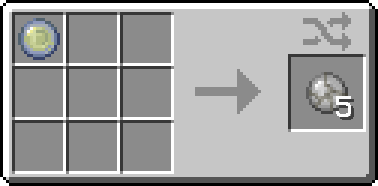
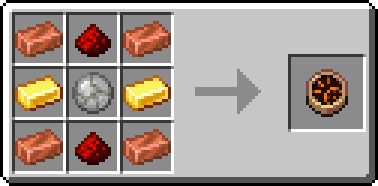
GITBOOK-17: No subject

diff --git a/additions/origins/impact-1/phoenix.md b/additions/origins/impact-1/phoenix.md
@@ -7,49 +7,55 @@ icon: phoenix-framework
 
 Gameplay Impact: \[<mark style="color:$success;">⬤</mark>⬤⬤] Origin Difficulty \[<mark style="color:$success;">⬤</mark>⬤⬤]
 
-<mark style="color:$primary;">Utility</mark>/<mark style="color:green;">Tank</mark>\
+<mark style="color:$danger;">Support</mark>/<mark style="color:$primary;">Utility</mark>\
 This origin, although extremely simple, can survive even death itself. Granting itself a second life and being able to ignite enemies with ease, while also being immune to lava itself. However, this origin can't use totems on it's own and is weakened when in contact with water.
 
 *
 
 <details>
 
-<summary>(Slightly) Stronger</summary>
+<summary>From The Ashes</summary>
 
-+20% To all positive stats.
-
-* All that stats that are amplified are:
-  * Health
-  * Armor Bars
-  * Armor Toughness
-  * Knockback
-  * Attack Speed
-  * Knockback Resistance
-  * Movement Speed
-  * Reach
-  * Mining Speed
-  * Damage Dealt
-  * Damage Resistance
-  * Hunger Loss (-20%)
-  * Swim Speed
-  * Experience Gain
-  * Immunity Frames
-  * Mob Breeding Cooldown
-  * Step Height
-  * Mob Visibility (-20%)
-  * Mob Drops
-  * Elytra Speed
-  * Natural Regeneration
-  * Repair Cost (-20%)
-  * Totem Fail Chance (-20%)
+Instead of dying, go to full health and gain regeneration and resistance for 20 seconds. (10 Minute Cooldown, Does not activate when sneaking)
 
 </details>
 
 <details>
 
-<summary>This will make you rage</summary>
+<summary>Hot Hands</summary>
 
-1/100 Chance to instantly die when taking damage. (1s cooldown, Totems Still Work)
+Due to the scorching temperature of your body, all attacks set entities on fire for 5s.
 
 </details>
 
+<details>
+
+<summary>Fire Immunity</summary>
+
+
+
+</details>
+
+<details>
+
+<summary>Hot-Footed</summary>
+
+You are immune to all kinds of fire damage and cannot be set on fire.
+
+</details>
+
+<details>
+
+<summary>Unholy</summary>
+
+You are unable to use totems of undying, as they slip between your fingers whenever you try to hold them.
+
+</details>
+
+<details>
+
+<summary>Extinguished</summary>
+
+You take 20% more damage, deal 20% less damage, and are slowed by 20% while in water.
+
+</details>

diff --git a/additions/origins/information.md b/additions/origins/information.md
@@ -1,7 +1,33 @@
 ---
-icon: exclamation
+icon: tags
 ---
 
 # Information
 
-Each origin features different and new techniques, with over 30 origins total, and more being added over time.
+Each origin features different and new techniques, with over 30 origins total, and more being added over time. With each origin having benefits and drawbacks that drastically effect gameplay.
+
+Below its description and impact, each origin has 2 Gameplay Tags and a Summary. These Tags give a basic outline of the origins playstyle and mechanics, so you can see if you would enjoy it without having to read through it. In addition to this there is a short summary of the origins features and debuffs, as well as some Recommended Tips/Combos you can find by hovering over the \[ ! ] Icon.
+
+{% columns %}
+{% column width="50%" %}
+The possible Tags are as follows:
+
+
+
+* <mark style="color:red;">Melee</mark>
+* <mark style="color:blue;">Single-Target</mark>
+* <mark style="color:green;">Tank</mark>
+* <mark style="color:orange;">Crowd-Control</mark>
+* <mark style="color:$danger;">Support</mark>
+* <mark style="color:$success;">Ranged</mark>
+* <mark style="color:red;">Debuff</mark>
+* <mark style="color:blue;">Movement</mark>
+* <mark style="color:$primary;">Utility</mark>
+* <mark style="color:purple;">Gatherer</mark>
+* <mark style="color:$info;">Stealth</mark>
+{% endcolumn %}
+
+{% column width="50%" valign="middle" %}
+<div align="center" data-full-width="false" data-with-frame="true"><figure><img src="../../.gitbook/assets/image (8).png" alt=""><figcaption><p><strong>Example of Summary/Tags being used in an origin.</strong></p></figcaption></figure></div>
+{% endcolumn %}
+{% endcolumns %}

diff --git a/SUMMARY.md b/SUMMARY.md
@@ -7,13 +7,14 @@
 * [Orb of Origin](additions/orb-of-origin.md)
 * [Shattered Orb of Origin](additions/shattered-orb.md)
 * [Obscurer](additions/obscurer.md)
+* [Enchanted Book Bundles](additions/obscurer-1.md)
 * [Origin Achievements](additions/origin-achievements.md)
 * [Achievement Items](additions/achievement-items.md)
+* [TODO LIST!](additions/todo-list.md)
 * Origins
   * [Information](additions/origins/information.md)
   * [Changelog](additions/origins/changelog/README.md)
     * [v2.0 (Release)](additions/origins/changelog/v2.0-release.md)
-  * [Gameplay Summary](additions/origins/gameplay-summary.md)
   * [🟢 Impact 1](additions/origins/impact-1/README.md)
     * [Delusion](additions/origins/impact-1/delusion.md)
     * [Phoenix](additions/origins/impact-1/phoenix.md)

diff --git a/additions/shattered-orb.md b/additions/shattered-orb.md
@@ -12,7 +12,7 @@ The Shattered Orb of Origin can be consumed to randomize your origin with a 5 se
 
 The Shattered Orb of Origin can be crafted in the following ways:
 
-<p align="center"><img src="../.gitbook/assets/image (1).png" alt=""><img src="../.gitbook/assets/image (2).png" alt=""></p>
+<p align="center"><img src="../.gitbook/assets/image (1) (1).png" alt=""><img src="../.gitbook/assets/image (2).png" alt=""></p>
 
 <p align="center"><img src="../.gitbook/assets/image (3).png" alt=""><img src="../.gitbook/assets/image (4).png" alt=""></p>
 

diff --git a/additions/obscurer-1.md b/additions/obscurer-1.md
@@ -1,0 +1,15 @@
+---
+icon: book
+---
+
+# Enchanted Book Bundles
+
+The Enchanted Book Bundle can be right clicked to unveil a random boosted enchanted book\
+(such as sharpness 6 or protection 5)
+
+## Obtaining
+
+### Crafting
+
+![](<../.gitbook/assets/image (6).png>)
+

diff --git a/additions/obscurer.md b/additions/obscurer.md
@@ -1,5 +1,5 @@
 ---
-icon: question
+icon: lightbulb-on
 ---
 
 # Obscurer
@@ -10,5 +10,4 @@ The Obscurer can be consumed to randomize your origin icon until death or origin
 
 ### Crafting
 
-![](<../.gitbook/assets/image (6).png>)
-
+![](../.gitbook/assets/image.png)

diff --git a/additions/todo-list.md b/additions/todo-list.md
@@ -1,0 +1,11 @@
+---
+icon: circle-info
+---
+
+# TODO LIST!
+
+TO DO:
+
+* [ ] finish impact 1
+* [ ] finish impact 2
+* [ ] finish impact 3
